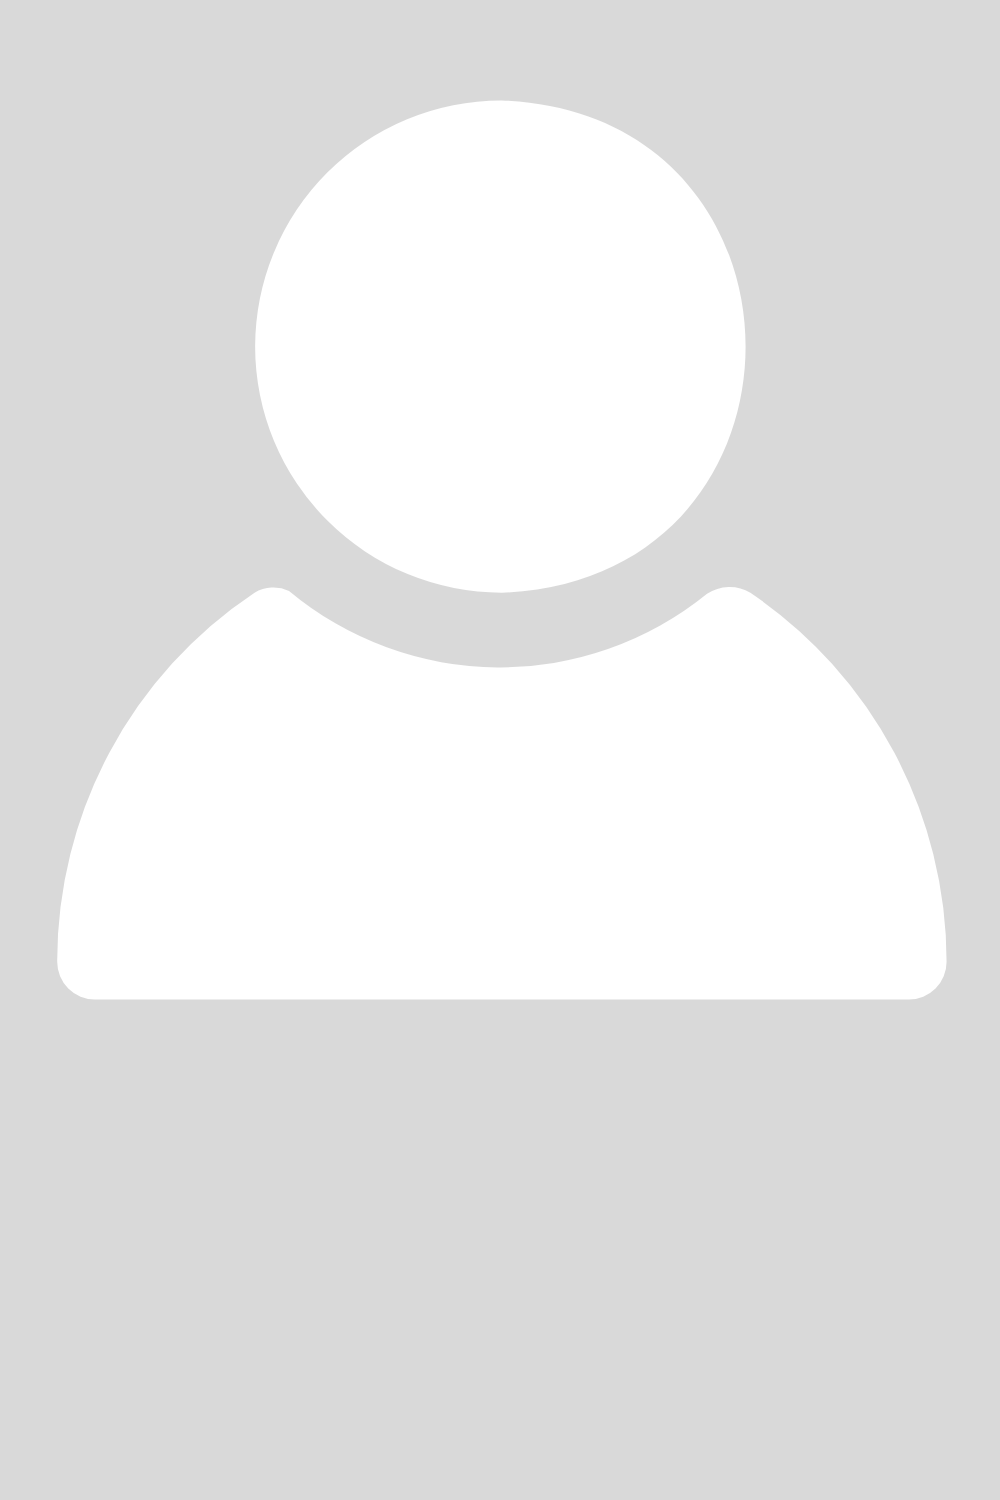
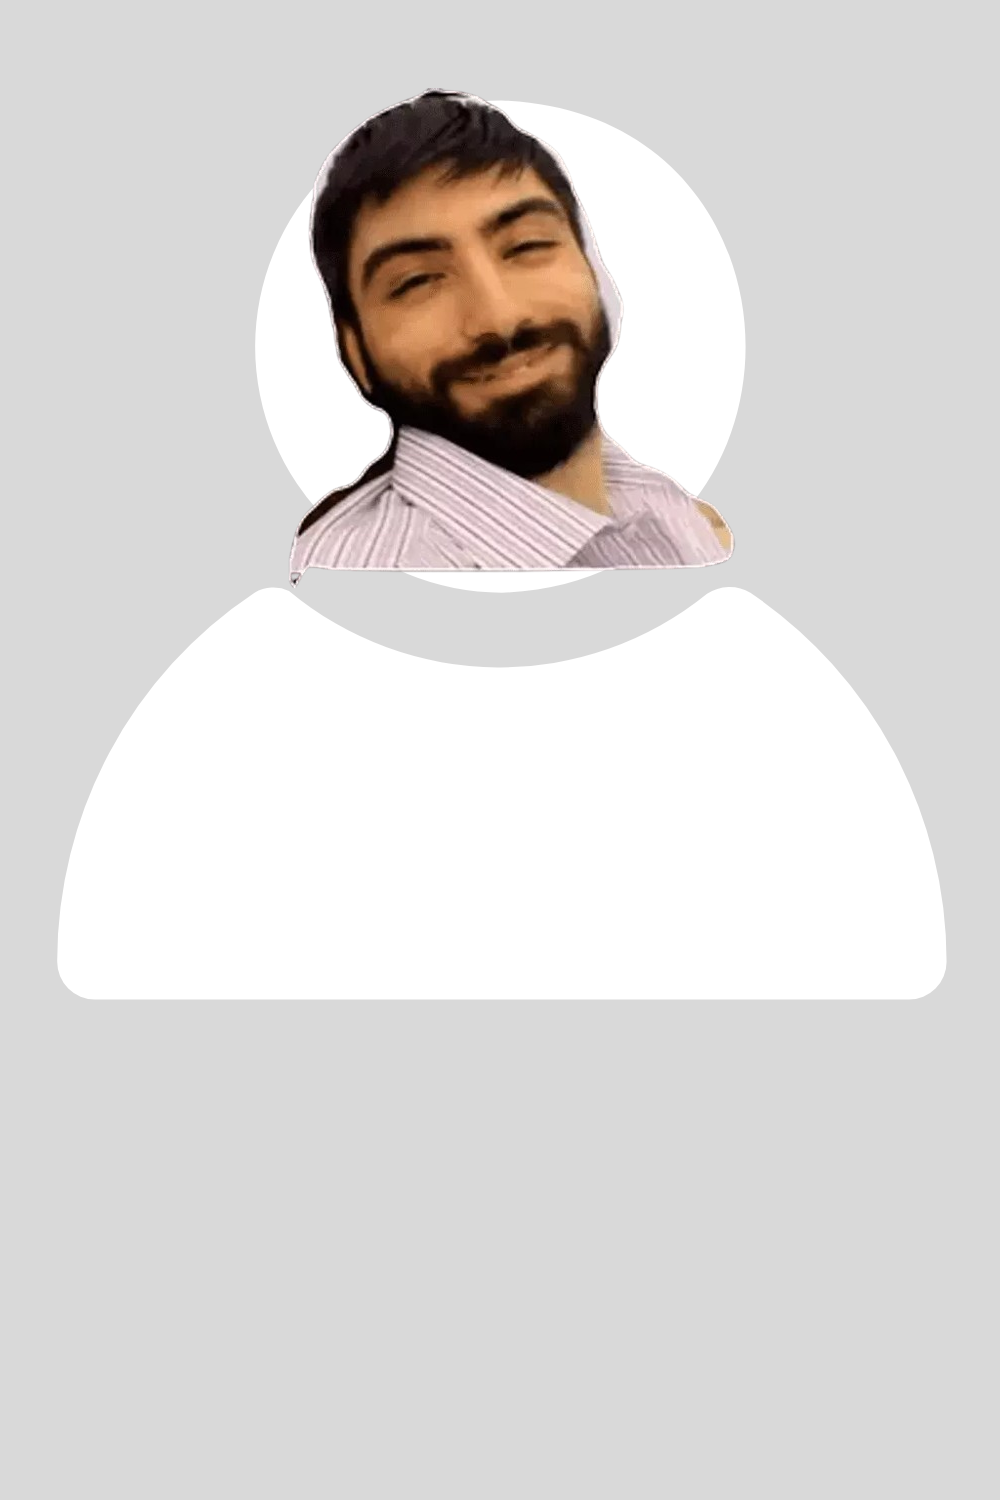
feat: teams photos are added

Changed region(s): [[0.279, 0.0613, 0.744, 0.3987]]

diff --git a/index.html b/index.html
@@ -305,6 +305,7 @@ Bootstrap 5 HTML CSS Template
                     </div>
 
                     <div class="col-lg-3 col-md-6 col-12 mb-4">
+                        <a href="https://www.linkedin.com/in/yasin-yi%C4%9Fit-altin%C3%B6z-514166247/" target="_new">
                         <div class="team-block-wrap">
                             <div class="team-block-info d-flex flex-column">
                                 <div class="d-flex mt-auto mb-3">
@@ -317,12 +318,14 @@ Bootstrap 5 HTML CSS Template
                             </div>
 
                             <div class="team-block-image-wrap">
-                                <img src="images/team/user.png" class="team-block-image img-fluid">
+                                <img src="images/team/yiğit.png" class="team-block-image img-fluid">
 
                             </div>
                         </div>
+                    </a>
                     </div>
                     <div class="col-lg-3 col-md-6 col-12 mb-4">
+                        <a href="https://www.linkedin.com/in/eda-%C3%B6zmen-74a096225/" target="_new">
                         <div class="team-block-wrap">
                             <div class="team-block-info d-flex flex-column">
                                 <div class="d-flex mt-auto mb-3">
@@ -335,11 +338,13 @@ Bootstrap 5 HTML CSS Template
                             </div>
 
                             <div class="team-block-image-wrap">
-                                <img src="images/team/user.png" class="team-block-image img-fluid" alt="">
+                                <img src="images/team/eda.png" class="team-block-image img-fluid" alt="">
                             </div>
                         </div>
+                    </a>
                     </div>
                     <div class="col-lg-3 col-md-6 col-12 mb-4">
+                        <a href="https://www.linkedin.com/in/atiye-yumuk-ab0a99226" target="_new">
                         <div class="team-block-wrap">
                             <div class="team-block-info d-flex flex-column">
                                 <div class="d-flex mt-auto mb-3">
@@ -352,9 +357,10 @@ Bootstrap 5 HTML CSS Template
                             </div>
 
                             <div class="team-block-image-wrap">
-                                <img src="images/team/user.png" class="team-block-image img-fluid" alt="">
+                                <img src="images/team/atiye.png" class="team-block-image img-fluid" alt="">
                             </div>
                         </div>
+                    </a>
                     </div>
                     <div class="col-lg-3 col-md-6 col-12 mb-4">
                         <a href="https://www.linkedin.com/in/yasinba%C4%9Fc%C4%B11704/" target="_new">
@@ -388,7 +394,7 @@ Bootstrap 5 HTML CSS Template
                             </div>
 
                             <div class="team-block-image-wrap">
-                                <img src="images/team/user.png" class="team-block-image img-fluid" alt="">
+                                <img src="images/team/furkan.png" class="team-block-image img-fluid" alt="">
                             </div>
                         </div>
                     </div>
@@ -450,6 +456,7 @@ Bootstrap 5 HTML CSS Template
                     </div>
 
                     <div class="col-lg-3 col-md-6 col-12 mb-4">
+                        <a href="https://www.linkedin.com/in/esmanur-g%C3%BCrkan-3210a1255/" target="_new">
                         <div class="team-block-wrap">
                             <div class="team-block-info d-flex flex-column">
                                 <div class="d-flex mt-auto mb-3">
@@ -462,9 +469,10 @@ Bootstrap 5 HTML CSS Template
                             </div>
 
                             <div class="team-block-image-wrap">
-                                <img src="images/team/user.png" class="team-block-image img-fluid" alt="">
+                                <img src="images/team/esma.png" class="team-block-image img-fluid" alt="">
                             </div>
                         </div>
+                    </a>
                     </div>
                     <div class="col-lg-3 col-md-6 col-12 mb-4">
                         <div class="team-block-wrap">
@@ -522,6 +530,7 @@ Bootstrap 5 HTML CSS Template
                     </div>
 
                     <div class="col-lg-3 col-md-6 col-12 mb-4">
+                        <a href="https://www.linkedin.com/in/muhammed-co%C5%9Fkun-5949b71b0/" target="_new">
                         <div class="team-block-wrap">
                             <div class="team-block-info d-flex flex-column">
                                 <div class="d-flex mt-auto mb-3">
@@ -534,9 +543,10 @@ Bootstrap 5 HTML CSS Template
                             </div>
 
                             <div class="team-block-image-wrap">
-                                <img src="images/team/user.png" class="team-block-image img-fluid" alt="">
+                                <img src="images/team/muhammed.png" class="team-block-image img-fluid" alt="">
                             </div>
                         </div>
+                    </a>
                     </div>
 
 
@@ -563,6 +573,7 @@ Bootstrap 5 HTML CSS Template
 
 
                     <div class="col-lg-3 col-md-6 col-12 mb-4">
+                        <a href="https://www.linkedin.com/in/zeynep-nisa-b-634731222" target="_new">
                             <div class="team-block-wrap">
                                 <div class="team-block-info d-flex flex-column">
                                     <div class="d-flex mt-auto mb-3">
@@ -575,9 +586,10 @@ Bootstrap 5 HTML CSS Template
                                 </div>
 
                                 <div class="team-block-image-wrap">
-                                    <img src="images/team/user.png" class="team-block-image img-fluid" alt="">
+                                    <img src="images/team/user_main.png" class="team-block-image img-fluid" alt="">
                                 </div>
                             </div>
+                        </a>
                     </div>
 
 
